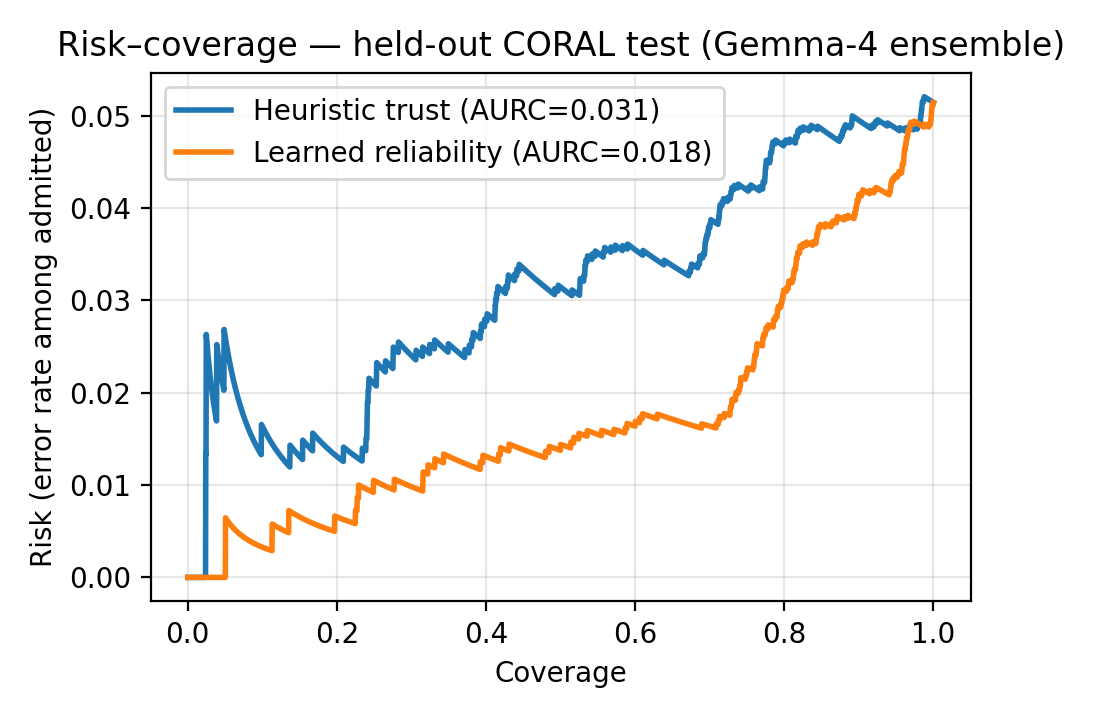
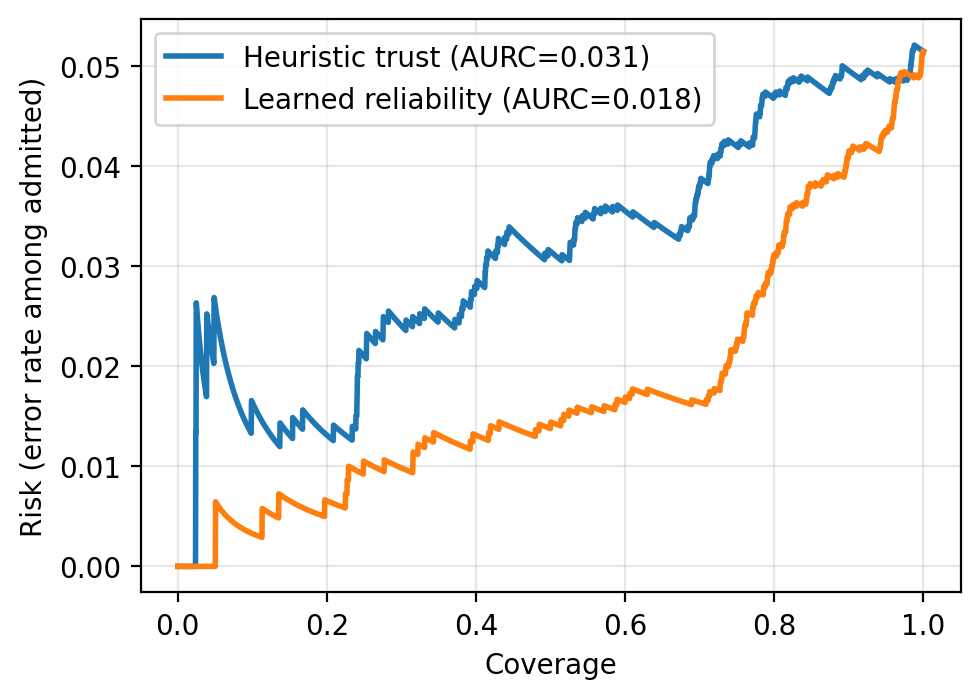
figure: remove in-plot title from risk_coverage (IEEE caption covers it) — keep axes + legend only

Changed region(s): [[0.0, 0.0, 1.0, 0.9914], [0.7653, 0.3605, 0.7959, 0.4506], [0.7347, 0.4506, 0.7653, 0.5408]]

diff --git a/scripts/exp_calibration_selective.py b/scripts/exp_calibration_selective.py
@@ -165,11 +165,10 @@ try:
         cov, risk = _rc(conf, yte)
         plt.plot(cov, risk, linewidth=2, label=f"{name} (AURC={aur:.3f})")
     plt.xlabel("Coverage"); plt.ylabel("Risk (error rate among admitted)")
-    plt.title("Risk–coverage — held-out CORAL test (Gemma-4 ensemble)")
+    # no in-plot title — the IEEE figure caption describes the experiment; keep only axes + legend
     plt.legend(loc="upper left"); plt.grid(alpha=0.3); plt.tight_layout()
-    # bbox_inches="tight" expands the saved canvas to include the title/labels (no cropping)
-    plt.savefig("figures/risk_coverage.pdf", bbox_inches="tight", pad_inches=0.15)
-    plt.savefig("figures/risk_coverage.png", dpi=200, bbox_inches="tight", pad_inches=0.15)
+    plt.savefig("figures/risk_coverage.pdf", bbox_inches="tight", pad_inches=0.1)
+    plt.savefig("figures/risk_coverage.png", dpi=200, bbox_inches="tight", pad_inches=0.1)
     plt.close()
     print(f"Saved figures/risk_coverage.pdf  (n_test={int(te.sum())})")
 except Exception as e:
